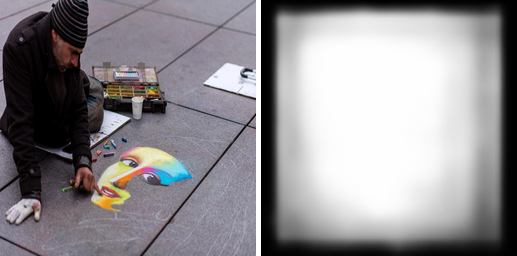
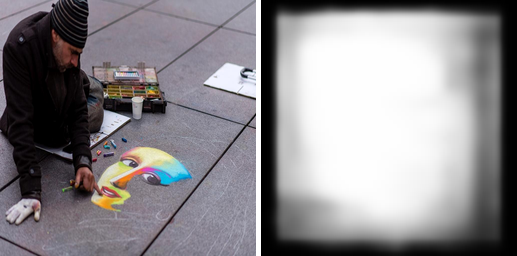
BBox_adjusting added

Changed region(s): [[0.8356, 0.0312, 0.9903, 0.9375], [0.5261, 0.75, 0.6499, 0.875], [0.5261, 0.9062, 0.5571, 0.9375]]

diff --git a/visualize_crop_bbox_adj.py b/visualize_crop_bbox_adj.py
@@ -1,4 +1,3 @@
-
 import os
 import cv2
 import numpy as np
@@ -17,6 +16,10 @@ from config_GAICD import cfg
 from cropping_dataset import generate_partition_mask, generate_target_size_crop_mask, rescale_bbox
 from test_pretrained import get_pdefined_anchor
 from cropping_model import HumanCentricCroppingModel
+from BBox_adjusting import RegionDetector
+from BBox_adjusting import BoundingBox
+from super_gradients.common.object_names import Models
+from super_gradients.training import models
 #from outpaint import outpaint_image
 import sys
 
@@ -61,7 +64,6 @@ def crop_image(image):
         w = cfg.image_size[0]
     resized_image = image.resize((w, h), Image.ANTIALIAS)
     im = image_transformer(resized_image)
-    #print(im)
     rs_width, rs_height = resized_image.size
     ratio_h = float(rs_height) / im_height
     ratio_w = float(rs_width) / im_width
@@ -71,15 +73,11 @@ def crop_image(image):
     else:'''
     #hbox = np.array([[-1, -1, -1, -1]]).astype(np.float32)
     hbox = np.array([[1, 28, 486, 549]]).astype(np.float32)
-    #hbox = rescale_bbox(hbox, ratio_w, ratio_h)
+    hbox = rescale_bbox(hbox, ratio_w, ratio_h)
     
 
     part_mask = generate_partition_mask(hbox, rs_width, rs_height,
                                                  human_mask_downsample)
-
-    #crop = self.annotations[image_name]
-    #x,y,w,h = crop
-    #crop = torch.tensor([x,y,x+w,y+h])
 
     pdefined_anchors = get_pdefined_anchor() # n,4, (x1,y1,x2,y2)
     crop = np.zeros((len(pdefined_anchors), 4), dtype=np.float32)
@@ -90,7 +88,6 @@ def crop_image(image):
     crop = torch.from_numpy(crop).unsqueeze(0).to(device)  # 1,n,4
     crop_mask = torch.from_numpy(crop_mask).unsqueeze(0).to(device)
     im_deviced = im.unsqueeze(0).to(device)
-    #print(im_deviced.size())
     hbox_deviced = torch.from_numpy(hbox).unsqueeze(0).to(device)
     part_mask_deviced = torch.from_numpy(part_mask).unsqueeze(0).to(device)
 
@@ -100,8 +97,6 @@ def crop_image(image):
     # visualize heat map
     visualize_heat_map(im, heat_map)
 
-
-
     # get best crop
     scores = scores.reshape(-1).cpu().detach().numpy()
     idx = np.argmax(scores)
@@ -110,20 +105,26 @@ def crop_image(image):
     pred_x2 = int(pdefined_anchors[idx][2] * im_width)
     pred_y2 = int(pdefined_anchors[idx][3] * im_height)
 
-    image_copy = image.copy()
-    # Create a draw object
-    #draw = ImageDraw.Draw(image_copy)
-    # Draw a rectangle on the image copy
-    #draw.rectangle((pred_x1, pred_y1, pred_x2, pred_y2), outline='red')
-    #image_copy.save('/content/Fork-Human-Centric-Image-Cropping/results_cropping/crop_visualized.png')
-    # Display the image copy
-    #print('crop visualized')
-    #image_copy.show()
+    bbox_adjusting = True
+    if bbox_adjusting == True:
+      # get most important region for bbox adjusting
+      most_important_region = [pred_x1, pred_y1, pred_x2, pred_y2]
+      region_detector = RegionDetector(image)
+      YOLO_predictions = region_detector.YOLO_prediction()
+      detected_objects = region_detector.detect_objects(YOLO_predictions)
+      most_important_region = BoundingBox(most_important_region)
+      objects_in_region = region_detector.determine_objects_in_region(detected_objects, most_important_region)
+      expanded_region = region_detector.expand_most_important_region(objects_in_region, most_important_region)
+      pred_x1, pred_y1, pred_x2, pred_y2 = expanded_region
+      cropped_image = image.crop((pred_x1, pred_y1, pred_x2, pred_y2))
+    else:
+      # Crop the image
+      cropped_image = image.crop((pred_x1, pred_y1, pred_x2, pred_y2))
 
-    # Crop the image
-    cropped_image = image_copy.crop((pred_x1, pred_y1, pred_x2, pred_y2))
+    #image_copy = image.copy()
+
     # Save the cropped image
-    cropped_image.save('/content/Fork-Human-Centric-Image-Cropping/results_cropping/bbox_given_cropped_image2.png')
+    cropped_image.save('/content/Fork-Human-Centric-Image-Cropping/results_cropping/adjusted_cropped_image.png')
     
     make_square = False
     if make_square:

diff --git a/BBox_adjusting.py b/BBox_adjusting.py
@@ -1,0 +1,94 @@
+import numpy as np
+from PIL import Image
+from super_gradients.common.object_names import Models
+from super_gradients.training import models
+import torch
+
+class BoundingBox:
+    def __init__(self, coordinates):
+        self.coordinates = np.array(coordinates, dtype=np.float32)
+
+    def calculate_area(self):
+        width = self.coordinates[2] - self.coordinates[0]
+        height = self.coordinates[3] - self.coordinates[1]
+        return width * height
+
+    def get_coordinates(self):
+        return self.coordinates
+
+class RegionDetector:
+    def __init__(self, image):
+         self.input_image = image
+         if type(image) == str:  # input_image is a URL
+          self.image = Image.open(image).convert('RGB')
+         elif isinstance(image, Image.Image): # input_image is already a PIL Image object
+          self.image = image
+         else:  # input_image is a numpy ndarray # for gradio
+          self.image = Image.fromarray(image)
+
+         self.image_width, self.image_height = self.image.size
+
+    def YOLO_prediction(self):
+        device = torch.device("cuda:0") if torch.cuda.is_available() else torch.device("cpu")
+        model = models.get("yolo_nas_l", pretrained_weights="coco").to(device)
+        image_prediction = list(model.predict(self.input_image, conf=0.2))[0]
+        
+
+        return image_prediction
+
+    def detect_objects(self, YOLO_predictions):
+        detected_objects = []
+        image_prediction = YOLO_predictions
+        class_names = image_prediction.class_names
+        labels = image_prediction.prediction.labels
+        confidence = image_prediction.prediction.confidence
+        bboxes = image_prediction.prediction.bboxes_xyxy
+
+        for i, (label, conf, bbox) in enumerate(zip(labels, confidence, bboxes)):
+            detected_objects.append(BoundingBox(bbox))
+        
+        return detected_objects
+
+    def determine_objects_in_region(self, detected_objects, most_important_region):
+        objects_in_region = []
+        for obj in detected_objects:
+            intersection_area = self.calculate_intersection_area(obj, most_important_region)
+            object_area = obj.calculate_area()
+            
+            if intersection_area >= 0.3 * object_area:
+                objects_in_region.append(obj)
+        
+        return objects_in_region
+
+    def calculate_intersection_area(self, obj, region):
+        intersection = np.maximum(0, np.minimum(obj.coordinates, region.coordinates))
+        return BoundingBox(intersection).calculate_area()
+
+    def expand_most_important_region(self, objects_in_region, most_important_region):
+        min_x = min(most_important_region.coordinates[0], *([obj.coordinates[0] for obj in objects_in_region]))
+        min_y = min(most_important_region.coordinates[1], *([obj.coordinates[1] for obj in objects_in_region]))
+        max_x = max(most_important_region.coordinates[2], *([obj.coordinates[2] for obj in objects_in_region]))
+        max_y = max(most_important_region.coordinates[3], *([obj.coordinates[3] for obj in objects_in_region]))
+
+        expanded_region = np.array([
+            max(0, min_x),
+            max(0, min_y),
+            min(max_x, self.image_width),
+            min(max_y, self.image_height)
+        ], dtype=np.float32)
+        
+        return expanded_region
+
+        
+if __name__ == '__main__':
+  # Usage example:
+  most_important_region = [29, 43, 656, 811]
+  image = "/content/Fork-Human-Centric-Image-Cropping/GAIC_280712.jpg"
+
+  region_detector = RegionDetector(image)
+  YOLO_predictions = region_detector.YOLO_prediction()
+  detected_objects = region_detector.detect_objects(YOLO_predictions)
+  most_important_region = BoundingBox(most_important_region)
+  objects_in_region = region_detector.determine_objects_in_region(detected_objects, most_important_region)
+  expanded_region = region_detector.expand_most_important_region(objects_in_region, most_important_region)
+  print(expanded_region)
